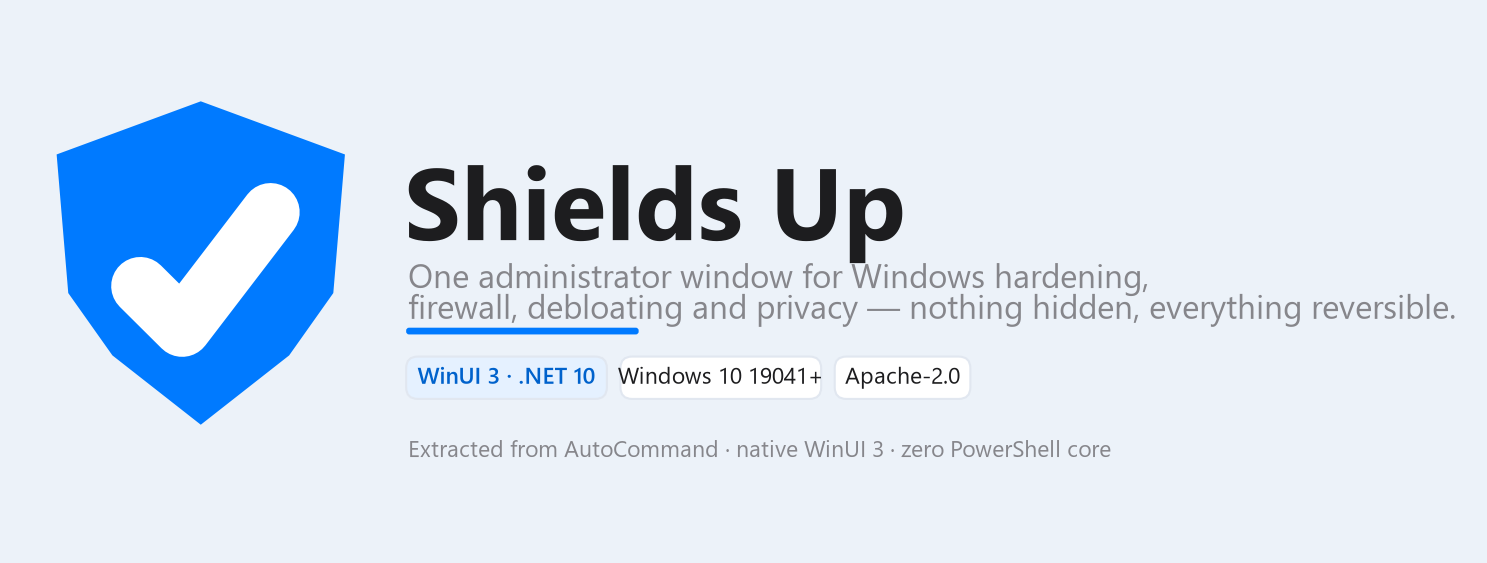
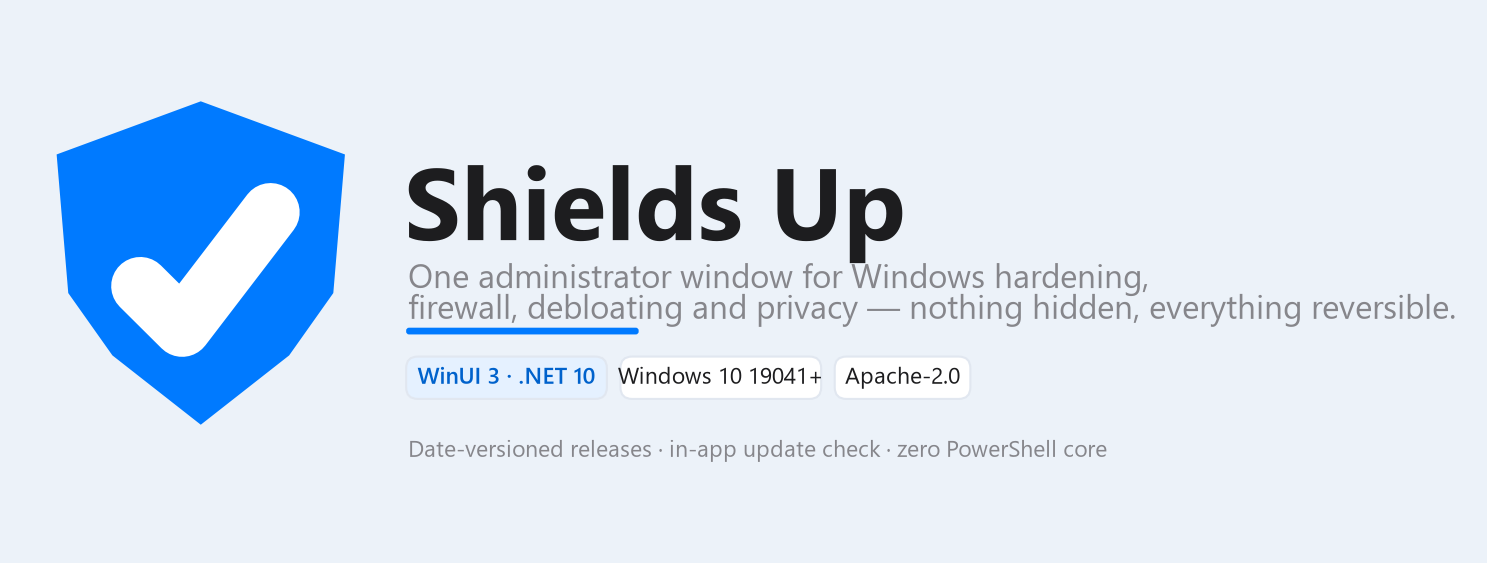
Refresh infographics + README rewrite for the current feature set
- Graphics: UpdateCheckService in the Core engine list, Settings card
  mentions the update check, hero tagline notes date-versioned releases
- README rewritten: counts strip / sortable firewall / update check with
  SHA256 verification, date-based versioning, window size memory, SAC
  guidance, diagnostics locations

Changed region(s): [[0.2784, 0.7851, 0.7424, 0.8153]]

diff --git a/docs/make_infographics.py b/docs/make_infographics.py
@@ -57,7 +57,7 @@ for label, is_accent in chips:
             color=ACCENT_D if is_accent else TEXT,
             fontweight="semibold" if is_accent else "normal", ha="center", va="center")
     x += w + 14
-ax.text(389, 84, "Extracted from AutoCommand · native WinUI 3 · zero PowerShell core",
+ax.text(389, 84, "Date-versioned releases · in-app update check · zero PowerShell core",
         fontsize=13, color=SUBTLE, va="center")
 plt.savefig("docs/img/hero.png", bbox_inches="tight", pad_inches=0.25, facecolor=PAGE)
 plt.close()
@@ -90,7 +90,7 @@ ax.text(GAP, H-52, "Fourteen tools, one window", fontsize=26, fontweight="bold",
 ax.text(GAP, H-84, "Every action reuses the exact engine behind its page — the checklist never drifts from the tools.",
         fontsize=13, color=SUBTLE)
 
-cards = feats + [("⚙", "Settings", "Launch-at-logon task, about + Apache-2.0 license footnote", SUBTLE)]
+cards = feats + [("⚙", "Settings", "Launch-at-logon, in-app update check via GitHub releases, Apache-2.0 footnote", SUBTLE)]
 for i, (emoji, name, desc, col) in enumerate(cards):
     c, r = i % cols, i // cols
     x = GAP + c*(CW+GAP)
@@ -127,12 +127,12 @@ for chip in chips:
 ax.annotate("", xy=(490, 456), xytext=(490, 508), arrowprops=dict(arrowstyle="-|>", lw=2, color=SUBTLE))
 ax.text(505, 482, "direct engine calls", fontsize=10.5, color=SUBTLE)
 
-rbox(ax, 90, 330, 800, 120, CARD, BORDER, r=12)
+rbox(ax, 90, 264, 800, 186, CARD, BORDER, r=12)
 ax.text(110, 416, "ShieldsUp.Core", fontsize=17, fontweight="bold", color=TEXT, va="center")
 ax.text(110, 392, "Engine class library — zero UI types, zero PowerShell", fontsize=11.5, color=SUBTLE, va="center")
 core = ["FirewallService (COM)", "TaskSchedulerService", "AppManagerService", "UpdateFreezeService",
         "TelemetryRulesService", "QuickScanService", "WanMiniportRemover", "RegistryHelper",
-        "ServiceHelper", "DbxRemediator", "AppLogger"]
+        "ServiceHelper", "DbxRemediator", "UpdateCheckService", "AppLogger"]
 x = 110; yy = 342
 for svc in core:
     w = 20 + len(svc)*7.6
@@ -142,8 +142,8 @@ for svc in core:
     ax.text(x+w/2, yy+13, svc, fontsize=9.2, color=TEXT, ha="center", va="center")
     x += w + 7
 
-ax.annotate("", xy=(490, 224), xytext=(490, 324), arrowprops=dict(arrowstyle="-|>", lw=2, color=SUBTLE))
-ax.text(505, 272, "COM · WMI · P/Invoke · WinRT", fontsize=10.5, color=SUBTLE)
+ax.annotate("", xy=(490, 224), xytext=(490, 258), arrowprops=dict(arrowstyle="-|>", lw=2, color=SUBTLE))
+ax.text(505, 240, "COM · WMI · P/Invoke · WinRT", fontsize=10.5, color=SUBTLE)
 
 rbox(ax, 90, 70, 800, 148, CARD, BORDER, r=12)
 ax.text(110, 186, "Windows", fontsize=17, fontweight="bold", color=TEXT, va="center")

diff --git a/README.md b/README.md
@@ -6,7 +6,7 @@
 the system-control toolset of AutoCommand into one fast, always-elevated administrator
 window: firewall profiles, attack-surface removal, bloatware cleanup, telemetry
 opt-outs, update freezing, task and startup control, OS hardening, UEFI revocation
-safety — with every action confirmed before it mutates and reversible after it does.
+safety — every action confirmed before it mutates, snapshotted, and reversible.
 
 Unpackaged, ~90 MB self-contained, no installer, no background services, no telemetry.
 
@@ -19,8 +19,8 @@ Unpackaged, ~90 MB self-contained, no installer, no background services, no tele
 | Tool | What it does |
 |---|---|
 | ⚡ **Quick Scan** | One pass over a fresh Windows install — miniports, Shield Up firewall, telemetry task, IPv6 + UAC, logon task, bloatware, hibernation. The checklist doubles as a live status dashboard, and every step reuses the exact engine behind its dedicated page. |
-| 📡 **Attack Surface** | Four lists: WAN miniport cleanup (top), SSTP/VPN backdoor neutering, ghost-hotspot (WiFi Direct) control, and KDNET kernel-debug removal. |
-| 🛡 **Firewall** | Profile presets (Shield Up / Gaming / Office / Home / Public Strict) via `INetFwPolicy2` COM, inbound/outbound rule browser with group toggles, legacy `AC-BLOCK` rule migration, and a 🌐 **Restore Internet** panic button that disables the whole block-rule fleet at once. |
+| 📡 **Attack Surface** | A counts strip up top (miniports / WiFi Direct / KDNET / SSTP state — green when clean, amber when exposed), then four full-width lists: WAN miniport cleanup, SSTP/VPN backdoor neutering, ghost-hotspot (WiFi Direct) control, KDNET kernel-debug removal. |
+| 🛡 **Firewall** | Profile presets (Shield Up / Gaming / Office / Home / Public Strict) via `INetFwPolicy2` COM, an inbound/outbound rule browser with **click-to-sort on any column** and group toggles, legacy `AC-BLOCK` rule migration, and a 🌐 **Restore Internet** panic button that disables the whole block-rule fleet at once. |
 | 📦 **Bloatware** | Uninstalls Store bloat (Outlook, Xbox, Teams, Copilot, OneDrive, …) against a user-editable list — defaults ship with the app, your opt-outs and additions persist in JSON. |
 | 📊 **Telemetry** | Applies each vendor's *own* documented opt-out (settings key, env var, or policy) for known phoning-home software, snapshots the previous value, and reverts exactly. Includes a DNS-cache "still beaconing?" check. |
 | 👁 **Privacy** | VPN services (RasMan/IKEEXT/PolicyAgent/RemoteAccess), WiFi Direct adapters, kernel debug, the `UsageDataReceiver` scheduled task, Defender tamper-protection status. |
@@ -31,7 +31,19 @@ Unpackaged, ~90 MB self-contained, no installer, no background services, no tele
 | 🔒 **OS Hardening** | LSA `RunAsPPL`, UAC maximum strictness, the IPv6 kill switch (`DisabledComponents=0xFF`), and hosts-file integrity check + reset. |
 | ✅ **DBX Safety** | Mounts the EFI partition, SHA256-baselines every boot file and reports drift, Authenticode-verifies the bootloader (Sysinternals sigcheck, downloaded only after signature gating), parses/applies Microsoft DBX revocation updates, and repairs the boot files with `bcdboot`. |
 | 🔓 **Unblock** | Strips Mark-of-the-Web (`Zone.Identifier`) from this app's folder or any folder you pick — the fix for SmartScreen nagging on every launch of an extracted zip. |
-| ⚙ **Settings** | Launch-at-logon scheduled task (highest privileges, no extra UAC prompt) and the about/license footnote. |
+| ⚙ **Settings** | Launch-at-logon scheduled task (highest privileges, no extra UAC prompt), in-app update check against the GitHub release, version/about, and the license footnote. |
+
+## Staying current
+
+**Settings → Updates → Check for updates** compares your build against the latest
+GitHub release. When a newer version exists, one click downloads the release zip into
+your Downloads folder **and verifies its SHA256 against the release's `SHA256SUMS.txt`**
+before it's declared valid — a mismatched file is deleted, not kept. Install is
+deliberately boring: extract, run the new exe. (A running elevated exe can't replace
+itself, and unsigned self-replacement isn't something to hide from the user.)
+
+Versions are their **build date** (`2026.10.11` = released that day) — `publish.ps1`
+stamps the date automatically, so a release tag always tells you how fresh it is.
 
 ## Architecture
 
@@ -57,14 +69,16 @@ ShieldsUp.slnx
 - **System-signed components are never offered for removal** — the bloatware and
   freeze engines refuse Windows binaries outright.
 - **Downloads are integrity-gated** — SHA256 recorded, then Microsoft Authenticode
-  verified before anything downloaded is executed; failures are deleted.
+  verified (tools) or checked against the release checksums (updates) before use;
+  failures are deleted.
 - **State is plain JSON** under `C:\ProgramData\ShieldsUp\` (`bloatware_config.json`,
   `firewall_config.json`, `telemetry_state.json`, `update_freeze.json` + ACL backups,
-  `efi_baseline.json`) with preferences in `HKCU\Software\ShieldsUp`. Same file formats
-  as AutoCommand, namespaced — the two apps never touch each other's state.
+  `efi_baseline.json`) with preferences and window size in
+  `HKCU\Software\ShieldsUp`. Same file formats as AutoCommand, namespaced — the two
+  apps never touch each other's state.
 - **Diagnostics** — `AppLogger` writes sessions, navigations and every caught exception
-  to `C:\ProgramData\ShieldsUp\logs\app.log`, and WER LocalDumps is registered so native
-  crashes leave `.dmp` files in `logs\dumps`.
+  to `C:\ProgramData\ShieldsUp\logs\app.log`, and WER LocalDumps is registered so
+  native crashes leave `.dmp` files in `logs\dumps`.
 
 Firewall block rules use the shared `AC-BLOCK-*` naming vocabulary, so Shields Up's
 Restore Internet button manages the same fleet AutoCommand created — safe on machines
@@ -74,8 +88,9 @@ that have run either or both.
 
 The UI is a from-scratch WinUI 3 port of the EmojiWifi Windows reference: Apple-style
 light theme — `#007AFF` accent, white sidebar with `#E5F1FF` selected pills, one
-elevated rounded content panel per tab (thin `ThemeShadow` drop shadow), tinted inset
-sections, and a white top bar that doubles as the window drag region.
+elevated rounded content panel per tab with a thin `ThemeShadow` drop shadow, tinted
+inset sections, a white top bar that doubles as the window drag region, and a window
+that opens at a usable 1284×850 and **remembers your last size** across runs.
 
 ## Build & run
 
@@ -86,7 +101,9 @@ dotnet build ShieldsUp.slnx          # build
 ./publish.ps1                        # self-contained win-x64 folder + zip + SHA256SUMS
 ```
 
-Output lands in `publish\v<version>\`, zipped as `ShieldsUp-v<version>-win-x64.zip`.
+`publish.ps1` stamps the version with today's date, publishes to
+`publish\v<date>\`, and zips as `ShieldsUp-v<date>-win-x64.zip` with a
+`SHA256SUMS.txt`.
 
 ### Smart App Control / SmartScreen
 
